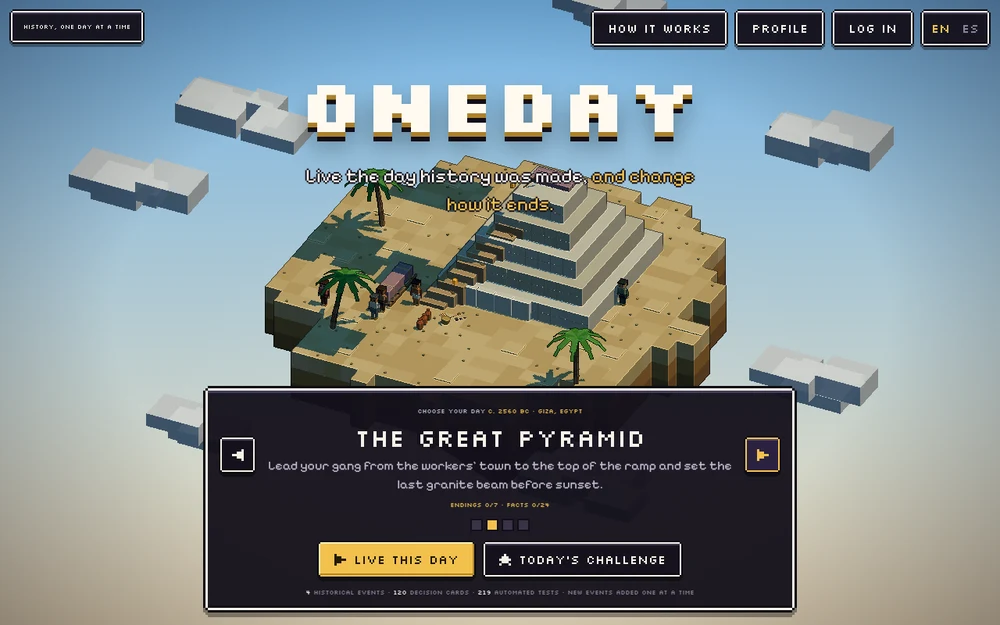
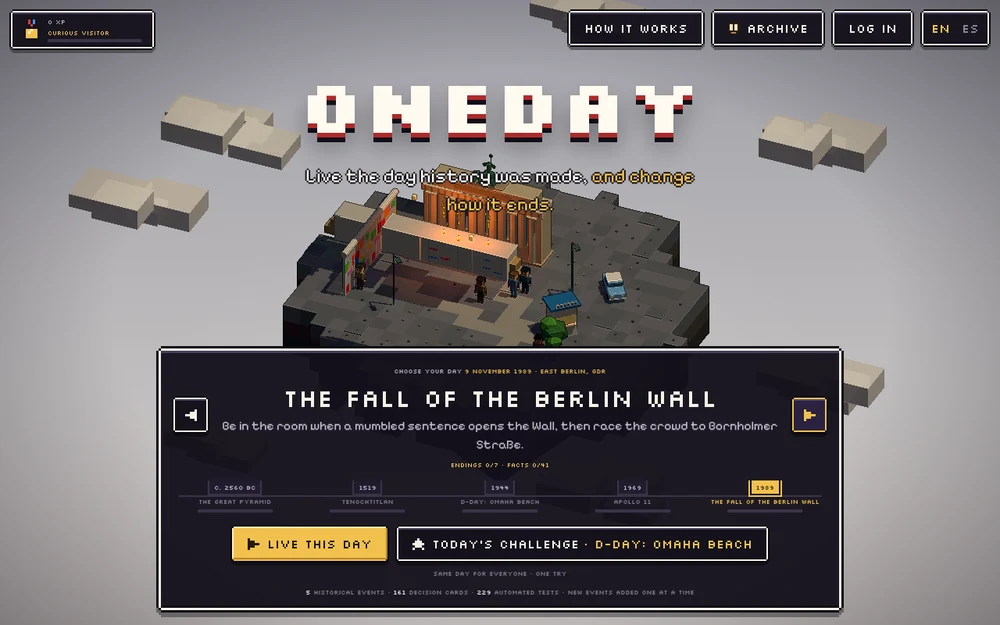
OneDay: the Berlin Wall, the historian's career and new screenshots (#7)
Claude-Session: https://claude.ai/code/session_01PWrcoiu3kYWppcyqK2ErND

diff --git a/src/data.ts b/src/data.ts
@@ -44,15 +44,15 @@ export const PROJECTS: Project[] = [
     id: 'oneday',
     name: 'OneDay',
     tagline:
-      'A historical decision game: live the Moon landing, the Great Pyramid, Tenochtitlan in 1519 or D-Day as a 3D character modelled and animated in Blender, who acts out every choice. Learn as you play, and find the real ending and the ones history missed.',
-    stat: '4 historical events · Blender 3D · 219 tests',
+      'A historical decision game: live the Great Pyramid, Tenochtitlan in 1519, D-Day, the Moon landing or the night the Berlin Wall fell as a 3D character modelled and animated in Blender, who acts out every choice. Pass the exam at nightfall, climb from Curious Visitor to Witness of the Ages, and find the real ending and the ones history missed.',
+    stat: '5 historical events · Blender 3D · 247 tests',
     stack: ['Vanilla JS', 'three.js', 'Blender (bpy)', 'WebGL shaders', 'Firebase'],
     live: 'https://lucasmarjua-ui.github.io/oneday/',
     code: 'https://github.com/lucasmarjua-ui/oneday',
     shots: [
-      { src: onedayStart, alt: 'OneDay title screen: the Great Pyramid of Giza under construction as a floating pixel-art diorama' },
+      { src: onedayStart, alt: 'OneDay title screen: the Brandenburg Gate and the Berlin Wall as a floating pixel-art diorama, with the historian rank and a timeline of five events' },
       { src: onedayDayLoop, alt: 'OneDay on Omaha Beach, 1944: a combat medic by the seawall, Belgian gates, a burning landing craft and a destroyer offshore, modelled in Blender' },
-      { src: onedaySummary, alt: 'OneDay ending screen for Tenochtitlan, 1519: the historical ending and what really happened' },
+      { src: onedaySummary, alt: 'OneDay ending screen for the fall of the Berlin Wall: the historical ending, experience earned, a new rank and medals' },
     ],
   },
   {
@@ -145,6 +145,12 @@ export const SKILLS = [
 
 // Dates come from each repository's first commit.
 export const LOG = [
+  {
+    date: 'Oct 2026',
+    title: 'OneDay: the Berlin Wall, and a career',
+    body: 'A fifth event, the night of 9 November 1989, with its own Blender set. Plus an exam on what each day taught, eight historian ranks, fourteen medals, an archive of every fact learned and one daily challenge for everyone.',
+    href: 'https://lucasmarjua-ui.github.io/oneday/',
+  },
   {
     date: 'Oct 2026',
     title: 'Rebuilt every OneDay set',
